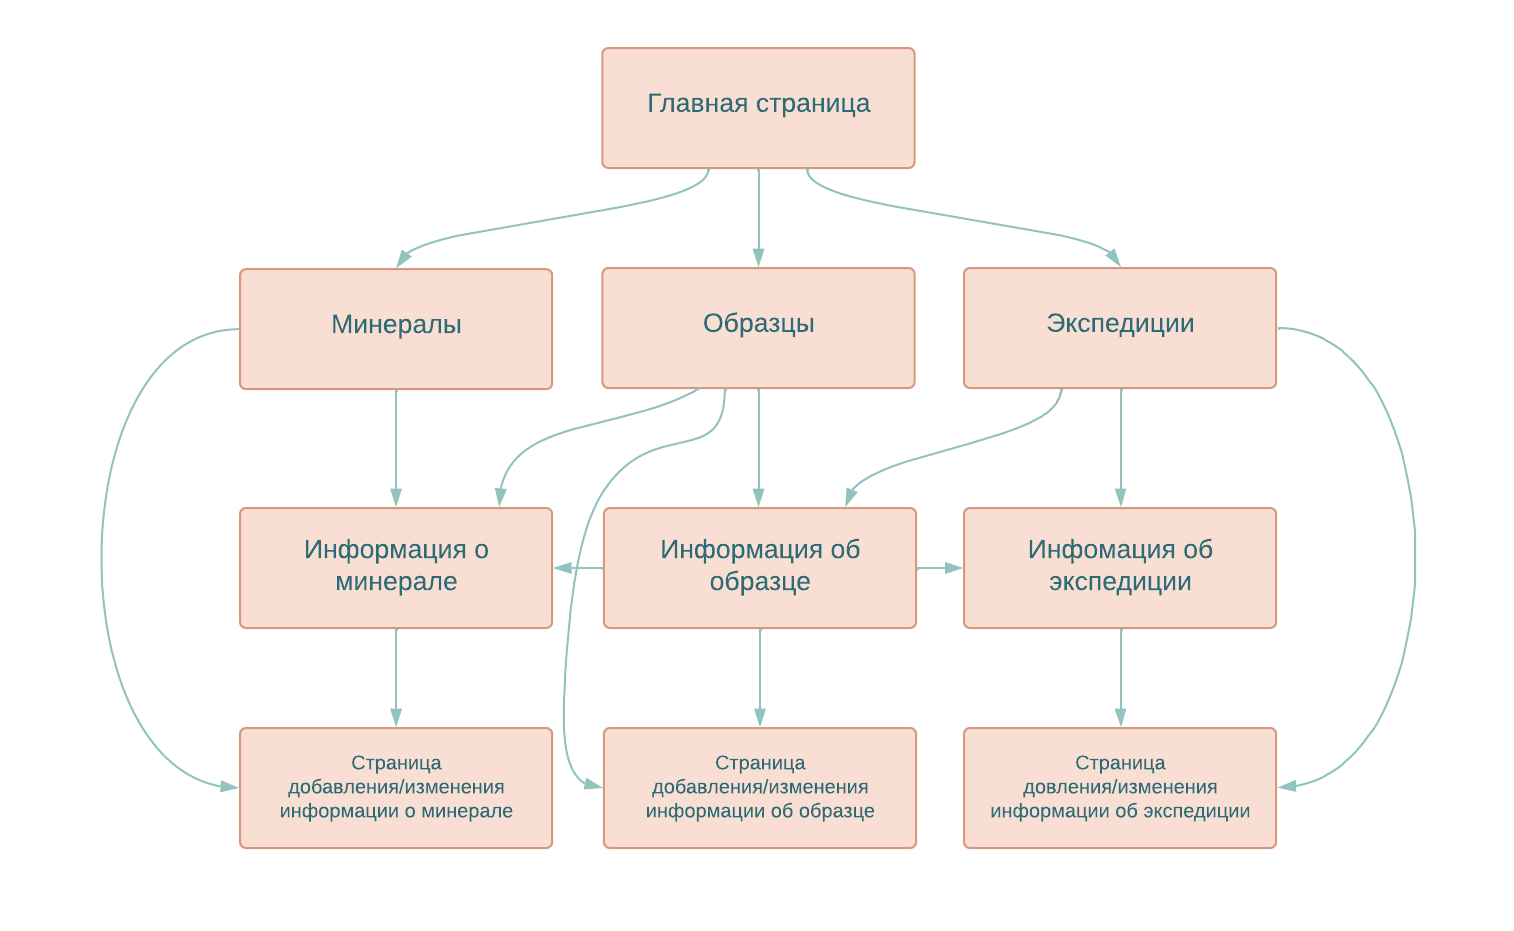
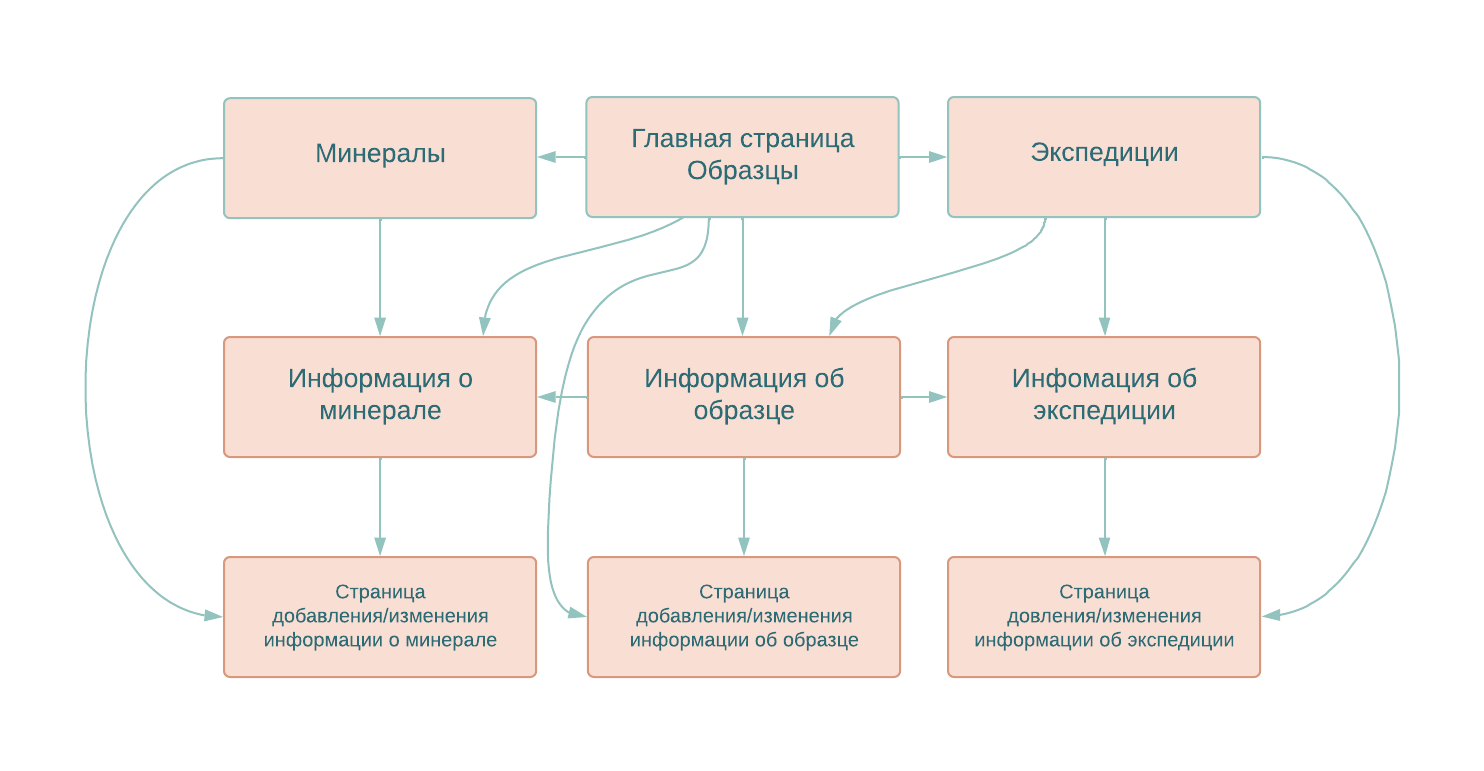
Edit readme
* defining attributes of minerals, samples and expeditions
* merging main page with samples list

diff --git a/README.md b/README.md
@@ -10,102 +10,119 @@ Web-application CMC MSU
 
 Описание страниц
 -----------------------
+
 ![Alt text](docs/navigation.png)
 
 На каждой странице верхнее меню с кнопками:
 
-- "Главная" -> главная страница
+- "Главная" -> список образцов
 - "Минералы" -> список минералов
 - "Образцы" -> список образцов
 - "Экспедиции" -> список экспедиций
 
-#### 1. Главная страница
+#### 1. Главная страница - Образцы
 
-- Поиск образцов по
-  - минералу
-  - источнику
-  - происхождению
-  - экспедиции
+- поля-атрибуты:
+  - номер образца
+  - возможное происхождение
+  - источник
+  - входящие минералы
+- сортировка по номеру, возможному происхождению, источнику
+- фильтрация по номеру, возможному происхождению, источнику, входящим минералам
+- кнопка "Добавить образец" -> Страница для изменения (добавления) образца
 
-- Кнопки "Поиск" и "Сброс"
+#### 2. Информация об образце
 
-#### 2. Минералы
+- подробная информация об образце:
+  - возможное происхождение
+  - источник
+  - место обнаружения
+  - входящие минералы, тип включения и % часть образца
+- кнопка "Редактирование" -> Страница для изменения (добавления) образца
 
-- Список минералов (сортировка и фильтрация по названию, классу, происхождению, состоянию)
-- Кнопка "Добавить минерал" -> Страница для изменения (добавления) минерала
+#### 3. Страница для изменения (добавления) образца
 
-#### 3. Информация о минерале
+- редактируемые поля:
+  - возможное происхождение
+  - источник
+  - место обнаружения (координаты, описание)
+  - экспедиция (дата начала, конца, участники)
+- кнопка "Добавить вхождение" - добавить входящий минерал (тип включения, примерная % часть образца)
+- кнопка "Удалить вхождение" - удалить входящий минерал (тип включения, примерная % часть образца)
 
-- подробная информация о минерале
-- список образцов в коллекции
+#### 4. Минералы - список минералов
 
-- кнопка "Редактирование" -> Страница для изменения (добавления) минерала
+- поля-атрибуты:
+  - название
+  - раздел, класс, подкласс
+  - происхождение
+  - агрегатное состояние
+- сортировка и фильтрация по названию, разделу, классу, подклассу, происхождению, агрегатному состоянию
+- кнопка "Добавить минерал" -> Страница для изменения (добавления) минерала
 
-#### 4. Страница для изменения (добавления) минерала
+#### 5. Информация о минерале
 
-- редактируемые поля
+- подробная информация о минерале:
   - название
   - химическая формула
   - происхождение
   - тип, класс, подкласс
   - агрегатное состояние
   - тип кристаллической решётки, твёрдость, хрупкость
-  - блеск, цвет, магнитные свойства 
-- Кнопка "Сохранить"
+  - блеск, цвет, магнитные свойства
+- список образцов в коллекции
+- кнопка "Редактирование" -> Страница для изменения (добавления) минерала
 
-#### 5. Список образцов
-  (номер образца, возможное происхождение, источник)
-  - сортировка по номеру
-  - фильтрация по происхождению, источнику
-  - кнопка "Добавить образец" -> Страница для изменения (добавления) образца
+#### 6. Страница для изменения (добавления) минерала
 
-#### 6. Информация об образце
-  - возможное происхождение
-  - источники
-  - экспедиция
-  - входящие минералы, тип включения и % часть образца
-  - кнопка "Редактирование" -> Страница для изменения (добавления) образца
+- редактируемые поля:
+  - название
+  - химическая формула
+  - происхождение
+  - тип, класс, подкласс
+  - агрегатное состояние
+  - тип кристаллической решётки, твёрдость, хрупкость
+  - блеск, цвет, магнитные свойства
+- кнопка "Сохранить"
 
-#### 7. Страница для изменения (добавления) образца
+#### 7. Экспедиции - список экспедиций
 
-  - редактируемые поля:
-    - возможное происхождение
-    - место обнаружения (координаты, описание)
-    - источник
-    - экспедиция
-  - "Добавить вхождение" - добавить входящий минерал (тип включения, примерная % часть образца)
-  - "Удалить вхождение" - удалить входящий минерал (тип включения, примерная % часть образца)
+- поля-атрибуты:
+  - даты начала и конца
+  - участники
+- сортировка по дате начала, конца, длительности
+- фильтрация по датам, участникам
+- кнопка "Добавить экспедицию" -> Страница для изменения (добавления) экспедиции
 
-#### 8. Экспедиции
+#### 8. Информация об экспедиции
 
-  - сортировка по дате начала, конца, длительности
-  - фильтрация по датам, участникам
-  - кнопка "Добавить экспедицию" -> Страница для изменения (добавления) экспедиции
-
-#### 9. Информация об экспедиции
-
-- даты начала и конца
-- участники
-- список найденных образцов
-
+- подробная информация об экспедиции:
+  - даты начала и конца
+  - участники
+  - список найденных образцов
 - кнопка "Редактирование" -> Страница для изменения (добавления) экспедиции
 
-#### 10. Страница для изменения (добавления) 
-экспедиции
+#### 9. Страница для изменения (добавления) экспедиции
 
 - редактируемые поля:
   - даты начала и конца
   - участники
   - описание
-- Кнопка "Добавить образец" 
-- Кнопка "Сохранить"
+- кнопка "Добавить образец"
+- кнопка "Сохранить"
 
 Некоторые сценарии использования
 ----------------------
-- Найти все образцы по минералу (источнику, экспедиции, агрегатному состоянию, происхождению)
+
+- Найти все образцы по минералу (номеру образца, источнику, возможному происхождению)
   - Перейти на главную страницу
-  - Ввести название минерала (источник, агрегатное состояние, происхождение)
+  - Ввести название минерала (номер образца, источник, возможное происхождение)
   - Нажать кнопку "Поиск"
+
+- Найти все образцы по экспедиции
+  - Перейти на главную страницу
+  - Применить фильтр по датам и участникам
+  - Перейти на страницу с информацией об экспедиции
 
 - Найти все минералы, входящие в образец
   - Перейти на страницу со списком образцов
@@ -124,7 +141,7 @@ Web-application CMC MSU
   - Перейти на страницу со списком образцов
   - Нажать кнопку "Добавить образец"
   - Ввести информацию
-  - Добавить входящие минералы 
+  - Добавить входящие минералы
     - ввести название минерала, тип включения и % часть образца -> нажать кнопку "Добавить вхождение"
     - при необходимости можно удалить вхождение - нажать кнопку "Удалить вхождение"
   - Нажать кнопку "Сохранить"
